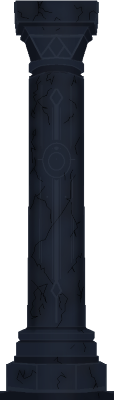
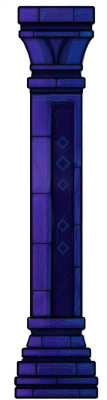
updated player jump sprite with new outfit.  Still todo: kick, airkick, and attack.  Also updated the ground and replaced the previous stone pillar

diff --git a/src/tools/play.html b/src/tools/play.html
@@ -61,7 +61,7 @@ const LABEL_KEYS = {
 };
 
 /* ---------- PLAYER SHEETS (ONE ROW OF 400x400 FRAMES EACH) ---------- */
-const PLAYER_FRAME = 400, SCALE = 0.5, FIXED_DT = 1 / 50; // TEMPORARILY SCALED TO 0.9 TO TEST SPRITE SHEETS
+const PLAYER_FRAME = 400, SCALE = 0.5, FIXED_DT = 1 / 50; // <- NOTE TO SELF SO I CAN FIND THIS EASILY AGAIN - THIS IS WHERE THE SCALE IS SET - 0.5 IS WHERE IT SHOULD BE BUT IF IT'S SET TO 0.9, IT'S BECAUSE I AM TESTING A NEW SPRITE SHEET
 const SHEET_DIR = 'assets/images/nova/sprites/';
 const PLAYER_SHEETS = {
   run:        { src: 'run.png',        frames: 8 },
@@ -127,7 +127,7 @@ const PLAYER_ANIMS = {
 };
 
 /* ---------- LEVEL (SAME LAYOUT AS THE KAPLAY PLAYGROUND) ---------- */
-const GROUND_Y = 460, GROUND_W = 16000, GROUND_H = 80, GROUND_TILE_W = 160;
+const GROUND_Y = 460, GROUND_W = 16000, GROUND_H = 80, GROUND_TILE_W = 381;
 const TILE_SIZE = 50, PLATFORM_H = 50, TILE_FRAME_COUNT = 6, TILE_SEED = 1337;
 const COLUMN_FRAME = 50, COLUMN_TOP = 0, COLUMN_PLAIN = 1, COLUMN_RUNES = [2, 3, 4, 5], COLUMN_BASE = 6;
 const COLUMN_SHAFT_INSET = 4, COLUMN_RUNE_CHANCE = 0.6, COLUMN_SEED = 4242;
@@ -279,7 +279,7 @@ async function loadAssets() {
     const tw = sheetTweak(key); if (tw.snapFeet || (tw.snapFrames && tw.snapFrames.length)) measureFootGaps(key, im, sh.frames);
   }
   IMG.spell = await loadImg(SPELL.src); IMG.swoosh = await loadImg(SWOOSH.src); IMG.puff = await loadImg(PUFF.src); IMG.spawn = await loadImg(SPAWN_FX.src); IMG.torch = await loadImg(TORCH.src); IMG.flame = await loadImg(TORCH.flameSrc); IMG.cloakBack = await loadImg(CLOAK.backSrc); IMG.cloakFront = await loadImg(CLOAK.frontSrc);
-  IMG.ground = await loadImg('assets/images/map/pillars.png'); IMG.tiles = await loadImg('assets/images/map/tiles.png'); IMG.column = await loadImg('assets/images/map/column.png');
+  IMG.ground = await loadImg('assets/images/map/ground.png'); IMG.tiles = await loadImg('assets/images/map/tiles.png'); IMG.column = await loadImg('assets/images/map/column.png');
   IMG.backdrop = await loadImg(BACKDROP.bgSrc); IMG.parallaxCol = await loadImg(BACKDROP.colSrc);
   try { IMG.arcade = await loadImg(ARCADE.src); buildArcade(); } catch (e) { console.warn('[play] no arcade backdrop (' + e.message + ')'); }      // OPTIONAL: PLAY RUNS WITHOUT THEM
   try { IMG.bgBottom = await loadImg(BG_BOTTOM.src); } catch (e) { console.warn('[play] no floor strip (' + e.message + ')'); }
